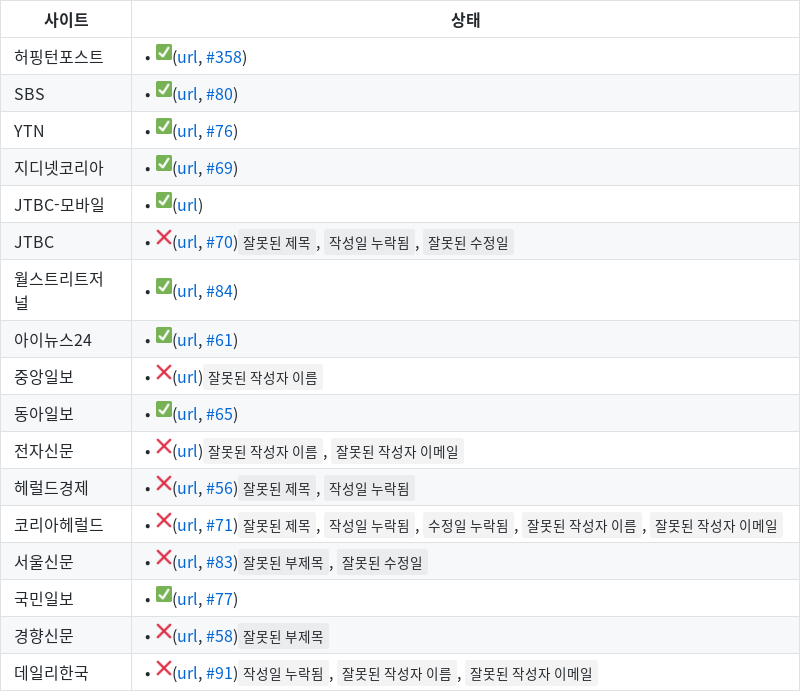
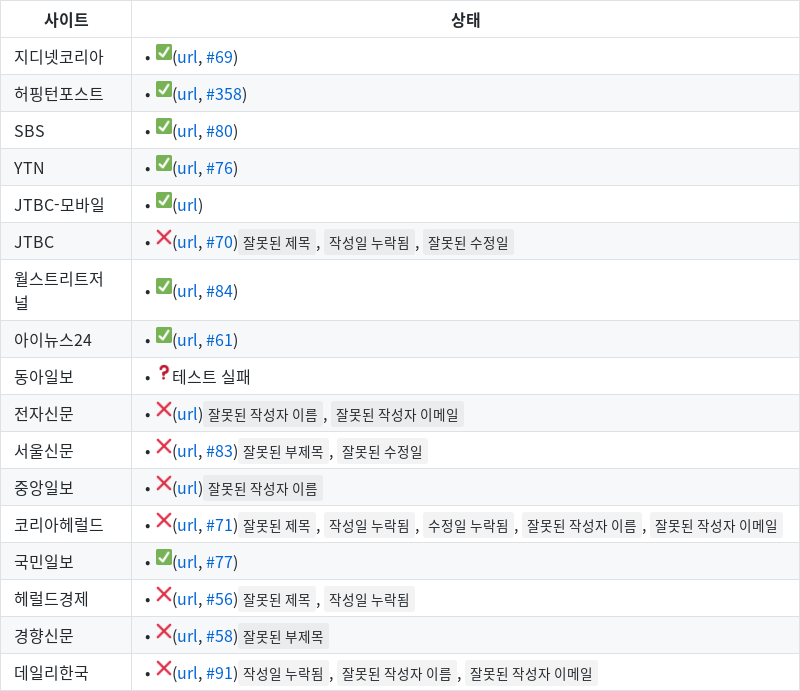
Sat Oct 17 00:54:11 UTC 2020

diff --git a/health-check.md b/health-check.md
@@ -1,19 +1,19 @@
 | 사이트 | 상태 |
 |------|-------|
+| 지디넷코리아 | • ✅([url](http://www.zdnet.co.kr/view/?no=20141104074223), [#69](https://github.com/disjukr/just-news/issues/#69)) |
 | 허핑턴포스트 | • ✅([url](https://www.huffingtonpost.kr/entry/story_kr_5d36a558e4b004b6adb5029c?9e4), [#358](https://github.com/disjukr/just-news/issues/#358)) |
 | SBS | • ✅([url](https://news.sbs.co.kr/news/endPage.do?news_id=N1002697236), [#80](https://github.com/disjukr/just-news/issues/#80)) |
 | YTN | • ✅([url](https://www.ytn.co.kr/_ln/0103_201411190800481989), [#76](https://github.com/disjukr/just-news/issues/#76)) |
-| 지디넷코리아 | • ✅([url](http://www.zdnet.co.kr/view/?no=20141104074223), [#69](https://github.com/disjukr/just-news/issues/#69)) |
 | JTBC-모바일 | • ✅([url](http://mnews.jtbc.joins.com/News/Article.aspx?news_id=NB11866214)) |
 | JTBC | • ❌([url](http://news.jtbc.joins.com/article/article.aspx?news_id=NB10639468), [#70](https://github.com/disjukr/just-news/issues/#70))`잘못된 제목`, `작성일 누락됨`, `잘못된 수정일` |
 | 월스트리트저널 | • ✅([url](https://realtime.wsj.com/korea/2014/10/13/%EB%B0%95%EC%9B%90%EC%88%9C-%EC%84%9C%EC%9A%B8%EC%8B%9C%EC%9E%A5-%EB%AF%B8%EA%B5%AD-%EC%96%B8%EB%A1%A0%EC%97%90-%EB%8F%99%EC%84%B1%EA%B2%B0%ED%98%BC-%EC%A7%80%EC%A7%80-%EB%B0%9C%EC%96%B8/), [#84](https://github.com/disjukr/just-news/issues/#84)) |
 | 아이뉴스24 | • ✅([url](http://www.inews24.com/view/860573), [#61](https://github.com/disjukr/just-news/issues/#61)) |
-| 중앙일보 | • ❌([url](https://news.joins.com/article/23621286))`잘못된 작성자 이름` |
-| 동아일보 | • ✅([url](http://news.donga.com/3/03/20141107/67723014/1), [#65](https://github.com/disjukr/just-news/issues/#65)) |
+| 동아일보 | • ❓테스트 실패 |
 | 전자신문 | • ❌([url](http://www.etnews.com/20191031000370?mc=ns_003_00006))`잘못된 작성자 이름`, `잘못된 작성자 이메일` |
-| 헤럴드경제 | • ❌([url](http://news.heraldcorp.com/view.php?ud=20141023000202&md=20141023091209_BK), [#56](https://github.com/disjukr/just-news/issues/#56))`잘못된 제목`, `작성일 누락됨` |
-| 코리아헤럴드 | • ❌([url](http://khnews.kheraldm.com/view.php?ud=20141111001137&md=20141111180830_BK&kr=1), [#71](https://github.com/disjukr/just-news/issues/#71))`잘못된 제목`, `작성일 누락됨`, `수정일 누락됨`, `잘못된 작성자 이름`, `잘못된 작성자 이메일` |
 | 서울신문 | • ❌([url](http://seoul.co.kr/news/newsView.php?id=20141204500025), [#83](https://github.com/disjukr/just-news/issues/#83))`잘못된 부제목`, `잘못된 수정일` |
+| 중앙일보 | • ❌([url](https://news.joins.com/article/23621286))`잘못된 작성자 이름` |
+| 코리아헤럴드 | • ❌([url](http://khnews.kheraldm.com/view.php?ud=20141111001137&md=20141111180830_BK&kr=1), [#71](https://github.com/disjukr/just-news/issues/#71))`잘못된 제목`, `작성일 누락됨`, `수정일 누락됨`, `잘못된 작성자 이름`, `잘못된 작성자 이메일` |
 | 국민일보 | • ✅([url](http://news.kmib.co.kr/article/view.asp?arcid=0008864720&code=61121111), [#77](https://github.com/disjukr/just-news/issues/#77)) |
+| 헤럴드경제 | • ❌([url](http://news.heraldcorp.com/view.php?ud=20141023000202&md=20141023091209_BK), [#56](https://github.com/disjukr/just-news/issues/#56))`잘못된 제목`, `작성일 누락됨` |
 | 경향신문 | • ❌([url](http://biz.khan.co.kr/khan_art_view.html?artid=201410311921301&code=920100&med=khan), [#58](https://github.com/disjukr/just-news/issues/#58))`잘못된 부제목` |
 | 데일리한국 | • ❌([url](http://daily.hankooki.com/lpage/politics/201412/dh20141219103740137430.htm), [#91](https://github.com/disjukr/just-news/issues/#91))`작성일 누락됨`, `잘못된 작성자 이름`, `잘못된 작성자 이메일` |
